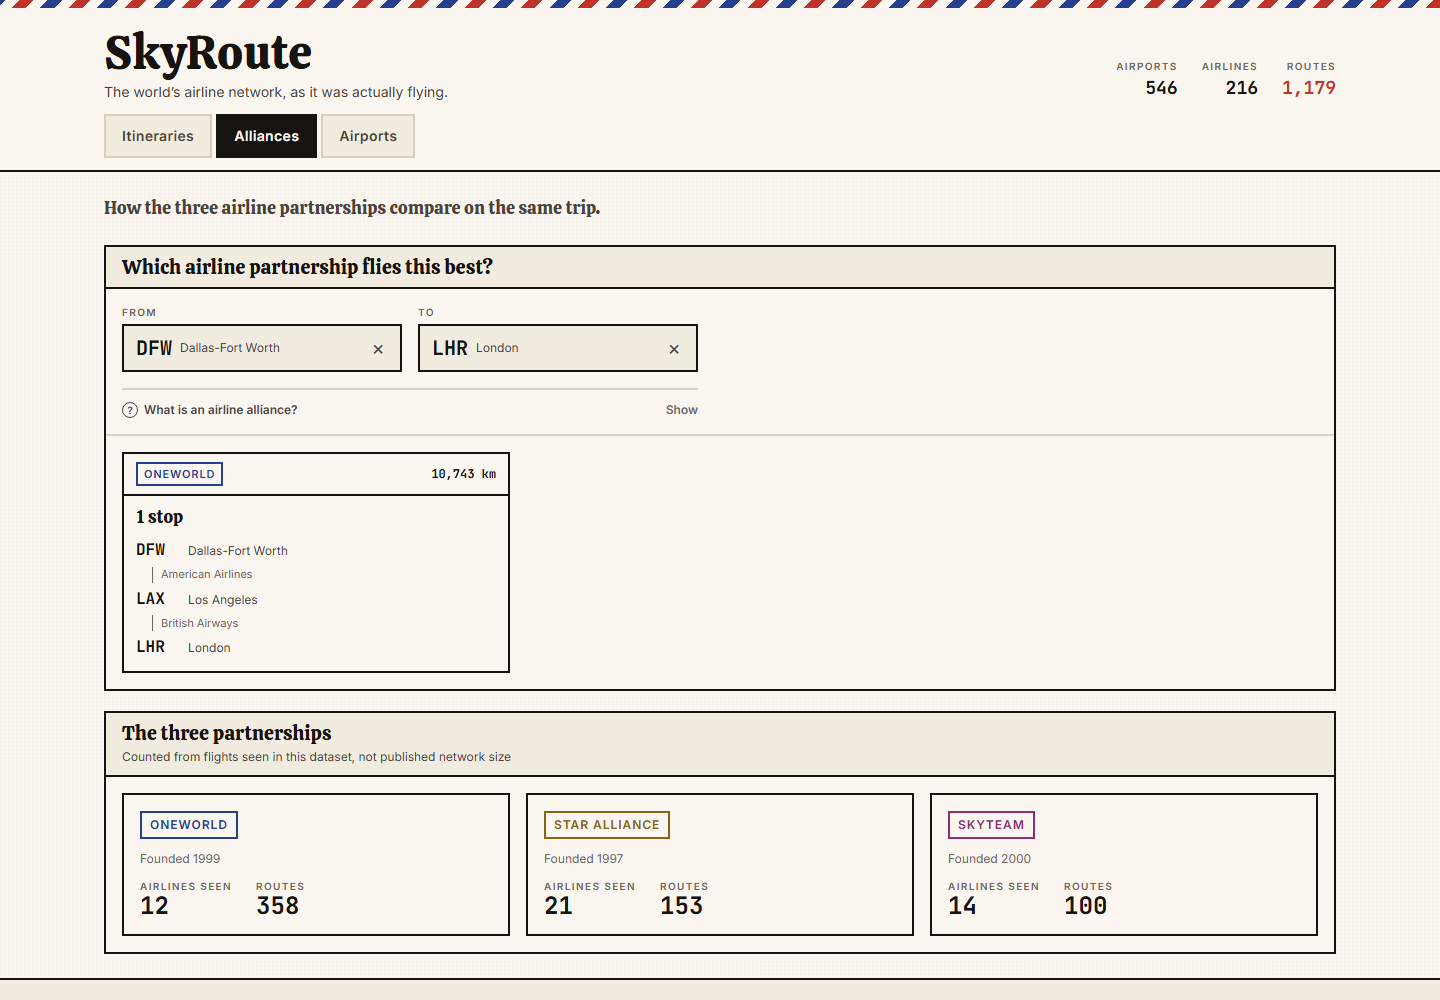
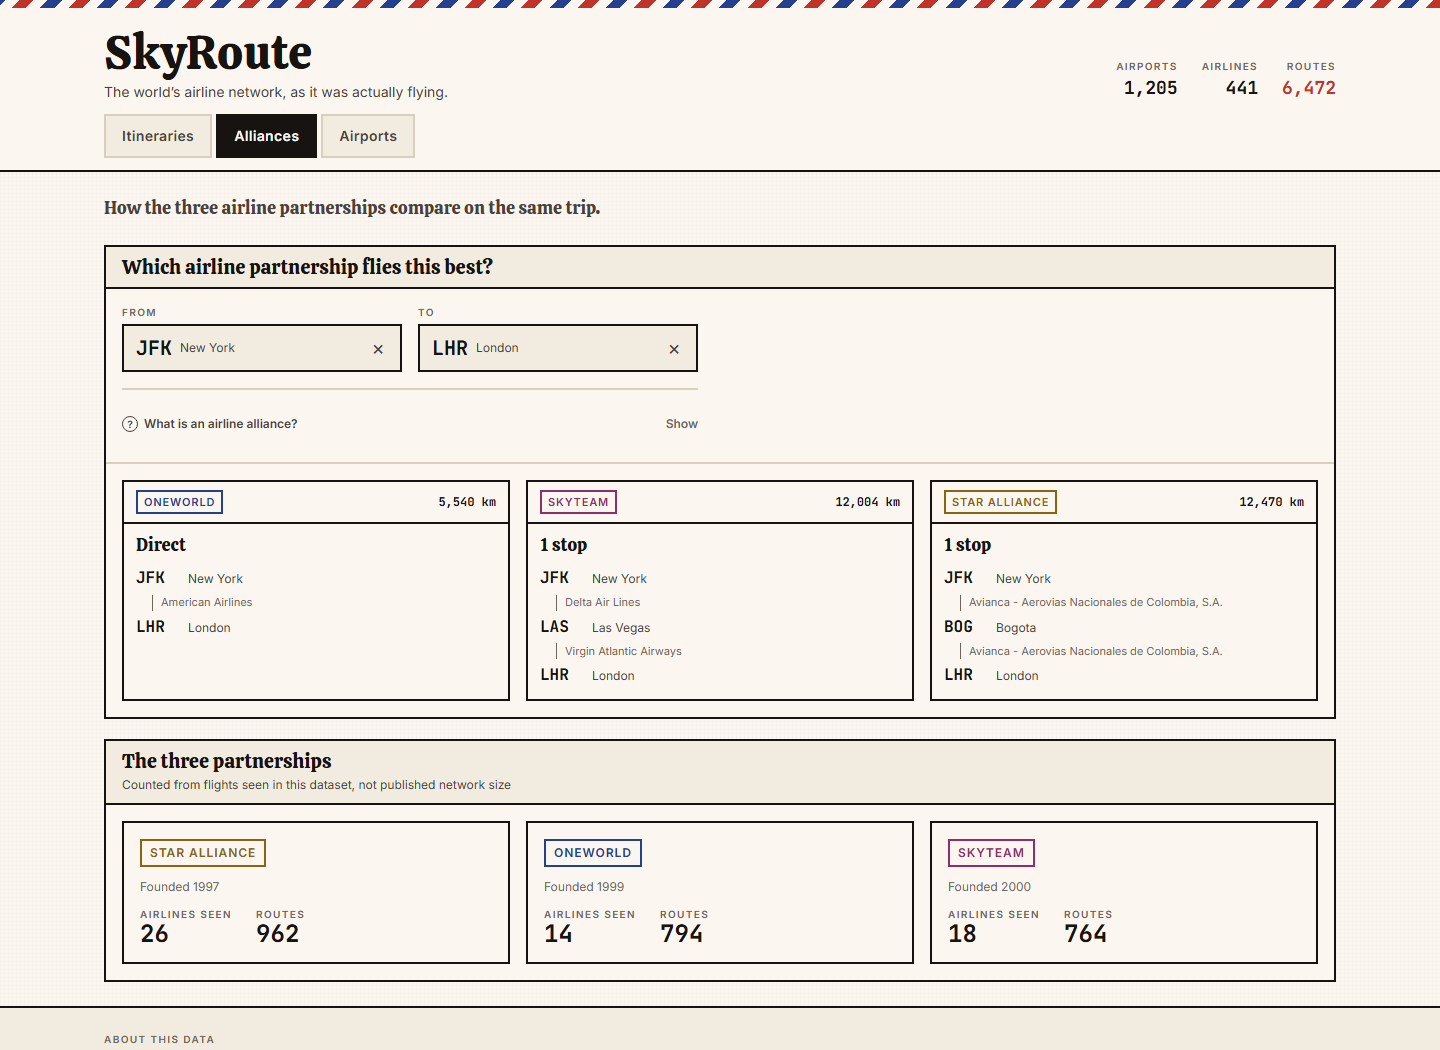
Add screenshots and real scale figures from the full dataset

Changed region(s): [[0.0, 0.031, 1.0, 1.0], [0.7812, 0.062, 0.9375, 0.093]]

diff --git a/README.md b/README.md
@@ -549,4 +549,21 @@ so number columns do not jitter as values change.
 
 ## Screenshots
 
-_Filled in below once the graph is loaded._
+**Itineraries.** Every way the observed network gets you from Atlanta to Amsterdam,
+ranked by stops then total distance. Each result is a boarding pass: the stub carries
+the headline numbers, and each leg names its airline and partnership.
+
+![Itineraries](docs/itineraries.png)
+
+**Alliances.** The comparison the project exists for. On JFK to London, oneworld
+flies it direct in 5,540 km; staying inside SkyTeam costs a stop in Las Vegas and
+12,004 km, and Star Alliance routes through Bogota for 12,470 km. Same city pair,
+three very different answers, and the constraint that produces them applies to every
+flight in the trip rather than to any one of them.
+
+![Alliance comparison](docs/alliances.png)
+
+**Airports.** Direct destinations from one airport, which countries open up within a
+stop, and the busiest airports in the sample.
+
+![Airport explorer](docs/explorer.png)
